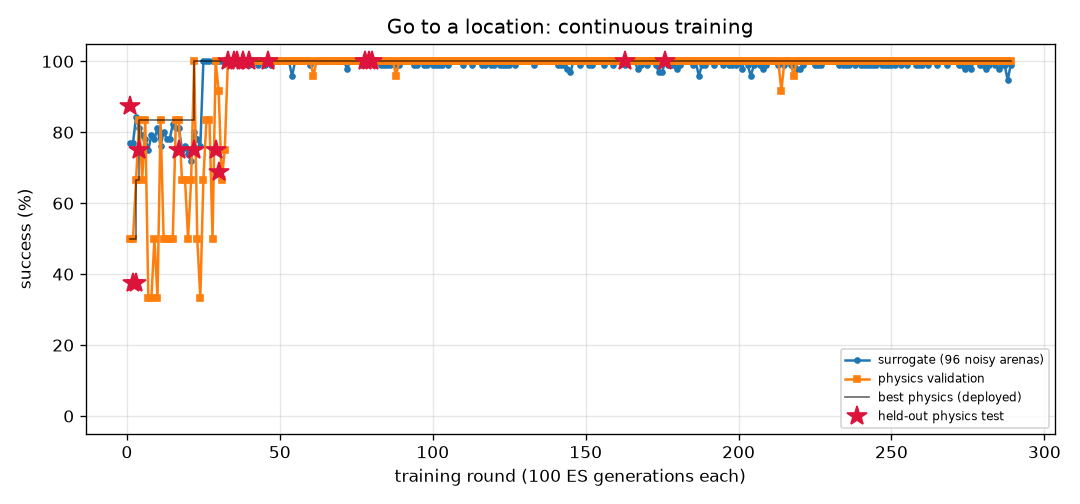
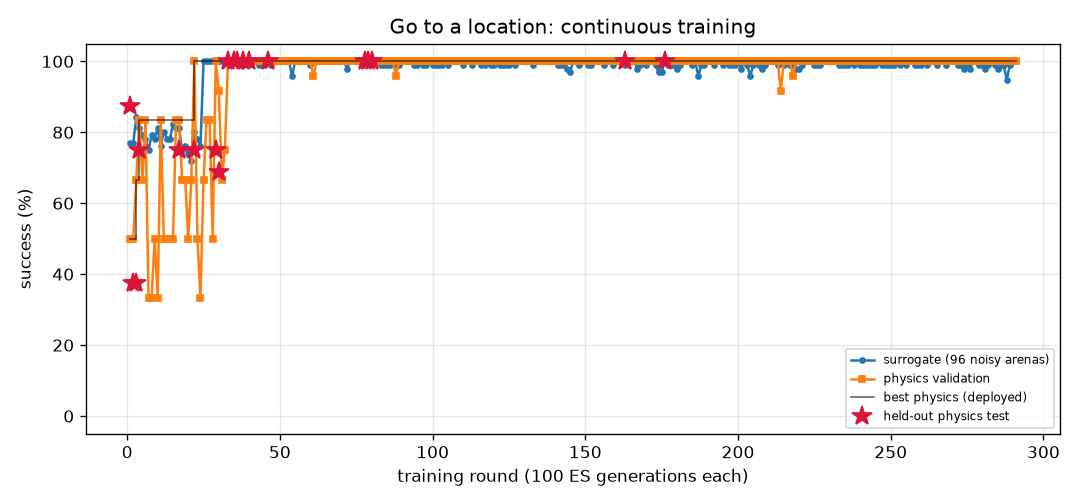
FlyLab: continuous training progress
- walk_forward: optimal, physics val 100% of 24, round 373
- turn: optimal, physics val 100% of 24, round 1018
- goto: optimal, physics val 100% of 24, round 291
- odor_seek: optimal, physics val 100% of 24, round 239
- odor_avoid: optimal, physics val 100% of 24, round 900
- light_seek: optimal, physics val 100% of 24, round 491
- light_avoid: optimal, physics val 100% of 24, round 628

diff --git a/projects/09_flylab/training/turn/REPORT.md b/projects/09_flylab/training/turn/REPORT.md
@@ -1,14 +1,14 @@
 # Turn in place (`turn`) — training report
 
-*Auto-generated by `train_brains.py`, last updated 2026-11-12T19:17:05.*
+*Auto-generated by `train_brains.py`, last updated 2026-11-12T23:08:03.*
 
 ![curve](curve.png)
 
 | | |
 |---|---|
-| rounds | 1013 |
-| ES generations | 101300 |
-| physics runs | 24558 |
+| rounds | 1018 |
+| ES generations | 101800 |
+| physics runs | 24678 |
 | status | **optimal** |
 | best brain | round 80: physics validation **100%** on 24 arenas, surrogate 100% |
 | held-out physics test | **97%** on 32 unseen arenas (95% CI 84%-99%) (errors: [1.6, 3.3, 6.3, 3.7, 1.1, 0.4, 2.4, 2.9, 0.1, 2.6, 0.5, 2.7, 1.5, 3.1, 4.5, 0.2, 0.5, 1.1, 2.0, 4.4, 2.8, 3.2, 0.3, 2.2, 0.5, 3.0, 0.3, 5.4, 0.4, 1.0, 4.7, 10.7]) |
@@ -17,11 +17,6 @@ Physics error per arena: deg from target heading (< 20 = success).
 
 | round | level | gens | sigma | surrogate | physics val | val errors | test | note |
 |---:|---:|---:|---:|---:|---:|---|---:|---|
-| 974 | 3 | 97400 | 0.025 | 99% | 88% | [7.1, 10.5, 8.6, 5.0, 2.6, 5.3, 2.6, 2.8, 4.0, 2.6, 1.7, 2.8, 2.3, 3.0, 2.1, 1.9, 3.0, 3.0, 1.7, 2.1, 7.7, 1.3, 1.6, 2.8] |  |  |
-| 975 | 3 | 97500 | 0.025 | 100% | 79% | [5.0, 1.4, 3.2, 1.9, 0.2, 0.5, 4.3, 6.1, 7.0, 1.5, 5.3, 1.5, 0.2, 1.3, 4.5, 2.8, 1.5, 2.3, 3.2, 2.1, 5.9, 1.2, 5.6, 2.5] |  |  |
-| 976 | 3 | 97600 | 0.024 | 100% | 92% | [8.6, 13.8, 7.0, 150.5, 0.2, 1.0, 9.3, 10.2, 8.5, 15.3, 5.6, 6.6, 3.5, 3.2, 4.7, 14.8, 7.0, 14.2, 5.1, 14.7, 2.1, 4.2, 7.9, 7.6] |  | restart from best |
-| 977 | 3 | 97700 | 0.024 | 99% | 96% | [1.7, 2.8, 0.4, 0.7, 0.5, 121.7, 4.5, 10.0, 5.0, 2.1, 3.9, 0.4, 3.1, 2.6, 3.7, 1.3, 0.1, 0.1, 2.1, 2.3, 5.0, 0.9, 6.3, 4.5] |  |  |
-| 978 | 3 | 97800 | 0.025 | 99% | 83% | [5.7, 4.6, 7.6, 2.9, 4.2, 4.6, 1.5, 4.4, 5.9, 1.3, 3.7, 0.8, 3.6, 2.2, 3.3, 1.0, 0.1, 1.0, 1.9, 1.9, 6.6, 1.0, 4.7, 4.0] |  |  |
 | 979 | 3 | 97900 | 0.025 | 99% | 96% | [0.4, 15.0, 7.3, 1.3, 0.0, 3.9, 7.2, 8.8, 9.2, 2.6, 2.3, 3.3, 0.6, 1.0, 3.9, 14.8, 3.4, 14.2, 4.4, 14.8, 3.1, 3.9, 7.6, 8.7] |  |  |
 | 980 | 3 | 98000 | 0.025 | 99% | 92% | [5.2, 3.6, 3.4, 3.4, 0.8, 0.6, 7.1, 8.6, 6.9, 14.8, 5.4, 2.8, 0.8, 0.2, 4.4, 3.5, 3.2, 3.0, 4.6, 4.5, 5.0, 3.3, 7.6, 15.2] |  | restart from best |
 | 981 | 3 | 98100 | 0.024 | 99% | 83% | [7.4, 6.5, 7.2, 1.5, 0.4, 4.4, 6.1, 3.0, 4.3, 0.8, 3.3, 0.3, 2.2, 2.6, 4.4, 0.3, 0.4, 0.5, 0.5, 0.4, 5.6, 0.9, 4.5, 0.4] |  |  |
@@ -57,3 +52,8 @@ Physics error per arena: deg from target heading (< 20 = success).
 | 1011 | 3 | 101100 | 0.024 | 100% | 79% | [6.0, 3.4, 1.9, 2.5, 4.5, 4.7, 4.8, 3.7, 5.4, 14.5, 4.8, 2.0, 1.5, 1.2, 4.5, 1.2, 1.8, 3.2, 0.9, 0.4, 6.5, 0.2, 4.2, 5.5] |  |  |
 | 1012 | 3 | 101200 | 0.024 | 99% | 83% | [8.3, 2.5, 5.3, 0.7, 13.8, 1.0, 7.5, 9.9, 9.3, 1.2, 5.3, 1.5, 0.5, 1.7, 5.7, 1.8, 1.2, 3.8, 1.5, 1.4, 4.5, 2.4, 6.5, 8.5] |  | restart from best |
 | 1013 | 3 | 101300 | 0.024 | 100% | 79% | [7.7, 10.1, 4.8, 4.2, 8.7, 2.8, 3.0, 2.6, 2.9, 0.0, 2.1, 4.5, 1.6, 2.4, 1.4, 0.8, 4.4, 1.0, 2.8, 1.7, 6.4, 2.8, 3.9, 1.6] |  |  |
+| 1014 | 3 | 101400 | 0.024 | 99% | 92% | [6.9, 6.0, 6.9, 3.7, 0.7, 2.3, 3.4, 2.5, 4.3, 0.1, 4.2, 0.0, 1.3, 1.3, 2.8, 8.2, 0.2, 0.6, 8.0, 2.4, 2.8, 0.1, 5.2, 5.1] |  |  |
+| 1015 | 3 | 101500 | 0.025 | 99% | 79% | [5.6, 10.0, 2.2, 2.6, 11.5, 2.4, 4.2, 0.4, 4.4, 0.6, 3.5, 2.1, 1.1, 4.1, 3.7, 5.0, 1.8, 0.1, 1.1, 1.6, 7.8, 1.0, 2.7, 3.7] |  |  |
+| 1016 | 3 | 101600 | 0.025 | 96% | 92% | [9.1, 8.3, 8.5, 3.4, 1.4, 0.6, 1.9, 0.5, 3.6, 0.9, 2.1, 1.9, 3.6, 4.1, 1.7, 2.4, 2.0, 1.3, 2.5, 2.1, 7.3, 1.5, 3.0, 3.5] |  | restart from best |
+| 1017 | 3 | 101700 | 0.024 | 99% | 75% | [2.4, 3.0, 4.5, 0.5, 1.8, 3.1, 6.4, 4.4, 5.8, 0.7, 4.5, 0.7, 2.1, 2.2, 4.3, 1.9, 0.9, 2.4, 3.2, 1.8, 5.7, 0.7, 5.6, 4.7] |  |  |
+| 1018 | 3 | 101800 | 0.025 | 100% | 83% | [0.8, 4.3, 8.9, 0.8, 16.6, 4.9, 8.1, 9.3, 9.0, 2.9, 5.9, 4.2, 3.8, 0.5, 5.1, 4.5, 3.8, 4.0, 4.7, 5.0, 3.1, 1.1, 7.3, 10.0] |  |  |

diff --git a/projects/09_flylab/training/odor_seek/REPORT.md b/projects/09_flylab/training/odor_seek/REPORT.md
@@ -1,24 +1,22 @@
 # Find food by smell (`odor_seek`) — training report
 
-*Auto-generated by `train_brains.py`, last updated 2026-11-12T22:08:06.*
+*Auto-generated by `train_brains.py`, last updated 2026-11-12T23:10:42.*
 
 ![curve](curve.png)
 
 | | |
 |---|---|
-| rounds | 237 |
-| ES generations | 23700 |
-| physics runs | 5118 |
+| rounds | 239 |
+| ES generations | 23900 |
+| physics runs | 5198 |
 | status | **optimal** |
-| best brain | round 137: physics validation **100%** on 24 arenas, surrogate 100% |
-| held-out physics test | **100%** on 32 unseen arenas (95% CI 89%-100%) (errors: [0.14, 0.05, 0.19, 0.15, 0.13, 0.08, 0.06, 0.06, 0.04, 0.06, 0.02, 0.11, 0.05, 0.1, 0.06, 0.01, 0.11, 0.12, 0.14, 0.08, 0.12, 0.06, 0.06, 0.09, 0.12, 0.05, 0.07, 0.07, 0.12, 0.11, 0.06, 0.11]) |
+| best brain | round 239: physics validation **100%** on 24 arenas, surrogate 100% |
+| held-out physics test | **100%** on 32 unseen arenas (95% CI 89%-100%) (errors: [0.11, 0.05, 0.04, 0.18, 0.06, 0.14, 0.1, 0.06, 0.07, 0.13, 0.12, 0.09, 0.14, 0.02, 0.04, 0.03, 0.1, 0.03, 0.04, 0.05, 0.03, 0.1, 0.07, 0.02, 0.07, 0.04, 0.02, 0.16, 0.1, 0.05, 0.05, 0.12]) |
 
 Physics error per arena: mm from target at the end (< 1.5 and standing still = success).
 
 | round | level | gens | sigma | surrogate | physics val | val errors | test | note |
 |---:|---:|---:|---:|---:|---:|---|---:|---|
-| 198 | 3 | 19800 | 0.024 | 100% | 100% | [0.15, 0.17, 0.15, 0.18, 0.11, 0.14, 0.15, 0.18, 0.15, 0.21, 0.2, 0.18, 0.18, 0.08, 0.18, 0.07, 0.18, 0.18, 0.11, 0.13, 0.21, 0.09, 0.06, 0.09] |  |  |
-| 199 | 3 | 19900 | 0.024 | 100% | 100% | [0.22, 0.16, 0.12, 0.16, 0.14, 0.15, 0.17, 0.16, 0.15, 0.15, 0.16, 0.15, 0.13, 0.18, 0.16, 0.16, 0.1, 0.23, 0.1, 0.2, 0.17, 0.21, 0.19, 0.17] |  |  |
 | 200 | 3 | 20000 | 0.024 | 100% | 100% | [0.12, 0.12, 0.09, 0.16, 0.14, 0.2, 0.14, 0.17, 0.23, 0.23, 0.14, 0.16, 0.18, 0.14, 0.12, 0.17, 0.08, 0.17, 0.15, 0.14, 0.15, 0.18, 0.13, 0.13] |  |  |
 | 201 | 3 | 20100 | 0.024 | 100% | 100% | [0.16, 0.14, 0.19, 0.12, 0.24, 0.17, 0.13, 0.15, 0.12, 0.18, 0.22, 0.17, 0.12, 0.12, 0.12, 0.16, 0.19, 0.16, 0.2, 0.17, 0.17, 0.21, 0.16, 0.18] |  | restart from best |
 | 202 | 3 | 20200 | 0.024 | 100% | 100% | [0.17, 0.15, 0.12, 0.26, 0.18, 0.22, 0.19, 0.09, 0.24, 0.18, 0.14, 0.15, 0.17, 0.15, 0.08, 0.16, 0.19, 0.12, 0.11, 0.13, 0.12, 0.15, 0.14, 0.08] |  |  |
@@ -57,3 +55,5 @@ Physics error per arena: mm from target at the end (< 1.5 and standing still = s
 | 235 | 3 | 23500 | 0.024 | 100% | 100% | [0.11, 0.17, 0.14, 0.2, 0.21, 0.09, 0.25, 0.12, 0.14, 0.14, 0.14, 0.2, 0.19, 0.17, 0.2, 0.13, 0.18, 0.15, 0.19, 0.14, 0.15, 0.15, 0.18, 0.23] |  |  |
 | 236 | 3 | 23600 | 0.024 | 100% | 100% | [0.1, 0.16, 0.11, 0.22, 0.09, 0.09, 0.09, 0.19, 0.14, 0.14, 0.12, 0.14, 0.15, 0.22, 0.18, 0.15, 0.1, 0.12, 0.11, 0.14, 0.08, 0.08, 0.15, 0.14] |  |  |
 | 237 | 3 | 23700 | 0.024 | 100% | 100% | [0.26, 0.18, 0.17, 0.11, 0.16, 0.13, 0.19, 0.12, 0.15, 0.24, 0.25, 0.26, 0.17, 0.12, 0.17, 0.2, 0.13, 0.18, 0.2, 0.2, 0.13, 0.19, 0.12, 0.16] |  | restart from best |
+| 238 | 3 | 23800 | 0.024 | 100% | 100% | [0.21, 0.14, 0.15, 0.17, 0.11, 0.1, 0.19, 0.17, 0.14, 0.16, 0.09, 0.13, 0.19, 0.16, 0.23, 0.19, 0.13, 0.19, 0.21, 0.14, 0.18, 0.15, 0.17, 0.15] |  |  |
+| 239 | 3 | 23900 | 0.024 | 100% | 100% | [0.08, 0.08, 0.04, 0.06, 0.07, 0.03, 0.1, 0.14, 0.05, 0.12, 0.15, 0.03, 0.05, 0.06, 0.05, 0.1, 0.09, 0.04, 0.11, 0.12, 0.13, 0.06, 0.08, 0.1] | 100% | new best |

diff --git a/projects/09_flylab/training/goto/REPORT.md b/projects/09_flylab/training/goto/REPORT.md
@@ -1,14 +1,14 @@
 # Go to a location (`goto`) — training report
 
-*Auto-generated by `train_brains.py`, last updated 2026-11-12T21:58:14.*
+*Auto-generated by `train_brains.py`, last updated 2026-11-12T22:31:25.*
 
 ![curve](curve.png)
 
 | | |
 |---|---|
-| rounds | 289 |
-| ES generations | 28900 |
-| physics runs | 6886 |
+| rounds | 291 |
+| ES generations | 29100 |
+| physics runs | 6934 |
 | status | **optimal** |
 | best brain | round 176: physics validation **100%** on 24 arenas, surrogate 100% |
 | held-out physics test | **100%** on 32 unseen arenas (95% CI 89%-100%) (errors: [0.2, 0.32, 0.19, 0.24, 0.18, 0.2, 0.19, 0.17, 0.22, 0.23, 0.23, 0.26, 0.2, 0.19, 0.24, 0.23, 0.22, 0.24, 0.2, 0.22, 0.2, 0.2, 0.26, 0.19, 0.22, 0.18, 0.26, 0.22, 0.2, 0.26, 0.23, 0.23]) |
@@ -17,8 +17,6 @@ Physics error per arena: mm from target at the end (< 1.5 and standing still = s
 
 | round | level | gens | sigma | surrogate | physics val | val errors | test | note |
 |---:|---:|---:|---:|---:|---:|---|---:|---|
-| 250 | 3 | 25000 | 0.025 | 99% | 100% | [0.42, 0.45, 0.37, 0.42, 0.33, 0.39, 0.43, 0.44, 0.44, 0.36, 0.36, 0.4, 0.42, 0.38, 0.41, 0.37, 0.46, 0.38, 0.33, 0.38, 0.37, 0.39, 0.42, 0.42] |  |  |
-| 251 | 3 | 25100 | 0.025 | 99% | 100% | [0.61, 0.61, 0.44, 0.49, 0.43, 0.47, 0.58, 0.52, 0.57, 0.45, 0.43, 0.46, 0.58, 0.45, 0.56, 0.5, 0.65, 0.49, 0.42, 0.57, 0.48, 0.45, 0.61, 0.5] |  |  |
 | 252 | 3 | 25200 | 0.025 | 100% | 100% | [0.56, 0.61, 0.6, 0.55, 0.55, 0.5, 0.58, 0.54, 0.56, 0.55, 0.52, 0.55, 0.62, 0.49, 0.65, 0.59, 0.62, 0.55, 0.54, 0.6, 0.55, 0.53, 0.62, 0.54] |  | restart from best |
 | 253 | 3 | 25300 | 0.024 | 99% | 100% | [0.7, 0.62, 0.51, 0.52, 0.45, 0.51, 0.62, 0.56, 0.59, 0.47, 0.49, 0.52, 0.64, 0.43, 0.53, 0.53, 0.66, 0.6, 0.47, 0.57, 0.5, 0.46, 0.63, 0.51] |  |  |
 | 254 | 3 | 25400 | 0.025 | 100% | 100% | [0.35, 0.35, 0.34, 0.27, 0.27, 0.24, 0.37, 0.26, 0.35, 0.28, 0.26, 0.26, 0.32, 0.27, 0.34, 0.33, 0.36, 0.26, 0.25, 0.32, 0.3, 0.28, 0.33, 0.26] |  |  |
@@ -57,3 +55,5 @@ Physics error per arena: mm from target at the end (< 1.5 and standing still = s
 | 287 | 3 | 28700 | 0.025 | 99% | 100% | [0.48, 0.5, 0.39, 0.42, 0.36, 0.42, 0.44, 0.48, 0.47, 0.35, 0.36, 0.4, 0.5, 0.39, 0.4, 0.42, 0.5, 0.41, 0.35, 0.45, 0.41, 0.35, 0.49, 0.44] |  |  |
 | 288 | 3 | 28800 | 0.025 | 95% | 100% | [0.45, 0.45, 0.49, 0.35, 0.38, 0.36, 0.45, 0.37, 0.37, 0.37, 0.37, 0.33, 0.38, 0.38, 0.39, 0.42, 0.42, 0.35, 0.37, 0.37, 0.43, 0.34, 0.41, 0.34] |  | restart from best |
 | 289 | 3 | 28900 | 0.024 | 99% | 100% | [0.61, 0.6, 0.63, 0.57, 0.43, 0.53, 0.6, 0.62, 0.63, 0.47, 0.45, 0.53, 0.62, 0.5, 0.55, 0.52, 0.63, 0.51, 0.44, 0.64, 0.5, 0.5, 0.65, 0.57] |  |  |
+| 290 | 3 | 29000 | 0.025 | 100% | 100% | [0.53, 0.54, 0.44, 0.53, 0.41, 0.5, 0.5, 0.57, 0.56, 0.41, 0.44, 0.49, 0.56, 0.47, 0.46, 0.47, 0.52, 0.51, 0.4, 0.54, 0.45, 0.42, 0.55, 0.56] |  |  |
+| 291 | 3 | 29100 | 0.024 | 100% | 100% | [0.73, 0.7, 0.7, 0.59, 0.55, 0.57, 0.73, 0.62, 0.72, 0.55, 0.54, 0.57, 0.67, 0.55, 0.59, 0.63, 0.64, 0.61, 0.54, 0.62, 0.61, 0.57, 0.71, 0.58] |  |  |

diff --git a/projects/09_flylab/training/TRAINING.md b/projects/09_flylab/training/TRAINING.md
@@ -1,15 +1,15 @@
 # FlyLab brains — continuous training log
 
-*Auto-generated by `train_brains.py`, last updated 2026-11-12T22:08:06.*
+*Auto-generated by `train_brains.py`, last updated 2026-11-12T23:10:42.*
 
 Every skill has its own brain and its own training process: surrogate ES rounds, physics validation in MuJoCo, keep-the-best selection, and a held-out physics test that is never used for selection. See each skill's report for its full round-by-round history. Mastery is progressive: passing a level (100% physics validation, >=95% surrogate) doubles the validation and test arena sets; a brain is **optimal** once it holds up at level 3 (>=95% of 24 validation arenas) AND scores >=90% on the 32 held-out test arenas. Test columns show 95% Wilson confidence intervals.
 
 | skill | rounds | ES generations | physics runs | surrogate | physics val | **physics test** | status |
 |---|---:|---:|---:|---:|---:|---:|---|
 | [Walk forward](walk_forward/REPORT.md) | 373 | 37300 | 8966 | 100% | 100% of 24 | 100% of 32 (CI 89-100%) | **optimal** |
-| [Turn in place](turn/REPORT.md) | 1013 | 101300 | 24558 | 100% | 100% of 24 | 97% of 32 (CI 84-99%) | **optimal** |
-| [Go to a location](goto/REPORT.md) | 289 | 28900 | 6886 | 100% | 100% of 24 | 100% of 32 (CI 89-100%) | **optimal** |
-| [Find food by smell](odor_seek/REPORT.md) | 237 | 23700 | 5118 | 100% | 100% of 24 | 100% of 32 (CI 89-100%) | **optimal** |
+| [Turn in place](turn/REPORT.md) | 1018 | 101800 | 24678 | 100% | 100% of 24 | 97% of 32 (CI 84-99%) | **optimal** |
+| [Go to a location](goto/REPORT.md) | 291 | 29100 | 6934 | 100% | 100% of 24 | 100% of 32 (CI 89-100%) | **optimal** |
+| [Find food by smell](odor_seek/REPORT.md) | 239 | 23900 | 5198 | 100% | 100% of 24 | 100% of 32 (CI 89-100%) | **optimal** |
 | [Escape a bad smell](odor_avoid/REPORT.md) | 900 | 90000 | 18906 | 97% | 100% of 24 | 97% of 32 (CI 84-99%) | **optimal** |
 | [Walk toward light](light_seek/REPORT.md) | 491 | 49100 | 8664 | 100% | 100% of 24 | 100% of 32 (CI 89-100%) | **optimal** |
 | [Hide from light](light_avoid/REPORT.md) | 628 | 62800 | 15344 | 100% | 100% of 24 | 100% of 32 (CI 89-100%) | **optimal** |
